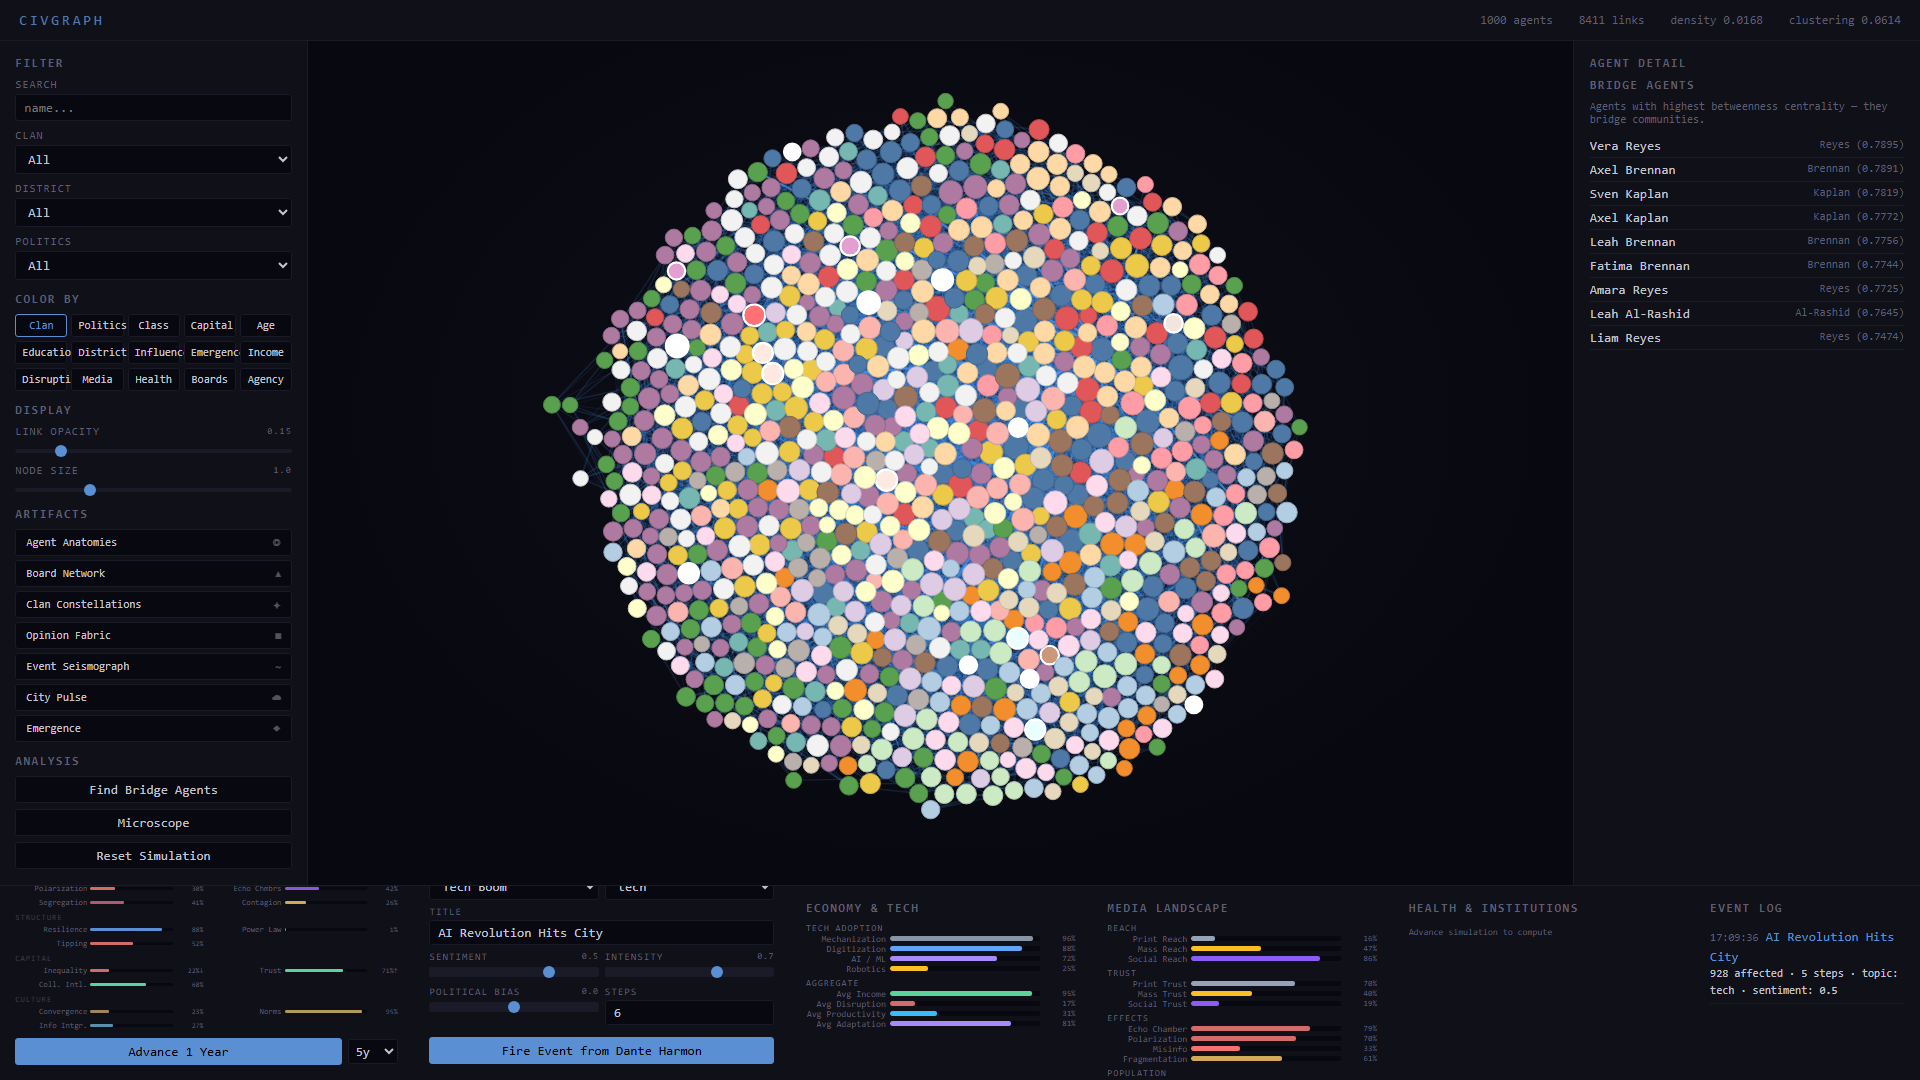
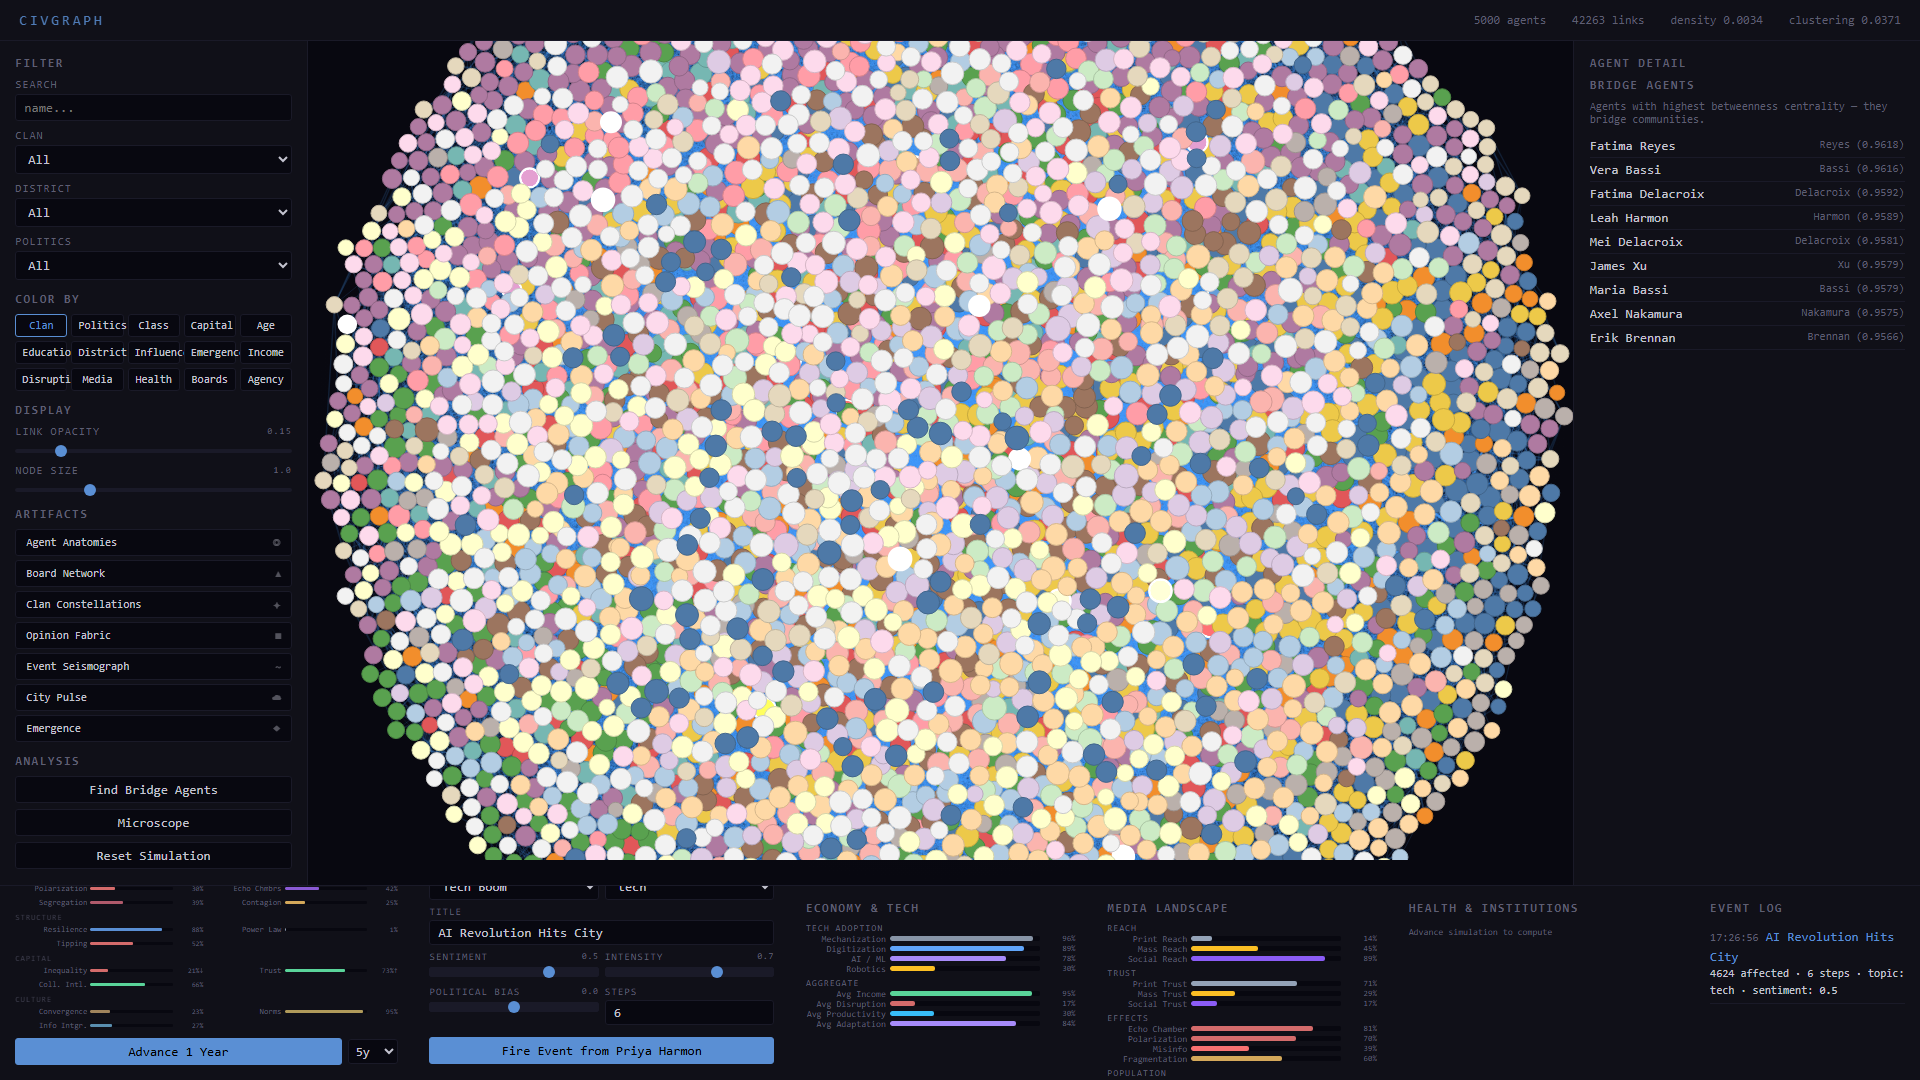
Scale to 5,000 agents, 30-year screenshots
- Default N increased from 1,000 to 5,000 agents
- All screenshots recaptured with 5,000 agents after 30 simulated
  years and 6 diverse events (AI revolution, rent crisis, climate
  march, board corruption, city election, arts quarter opening)
- Dense 5,000-node graph fills the viewport with rich structure
- Constellations show 5x denser clan patterns
- City Pulse shows 35+ years of 7-domain evolution
- Updated all references: README, CLAUDE.md, model.py docstring,
  server.py defaults, app.js search limits

diff --git a/static/app.js b/static/app.js
@@ -688,7 +688,7 @@ async function refreshNodeOpinions() {
   // (more efficient: just re-fetch graph which includes opinion data)
   // The graph endpoint doesn't include opinion_state, so we need the agents endpoint
   // For efficiency, fetch a sample to populate _opinions
-  const allAgents = await fetch("/api/search?limit=1000").then((r) => r.json());
+  const allAgents = await fetch("/api/search?limit=5000").then((r) => r.json());
   const agentMap = {};
   for (const a of allAgents) agentMap[a.id] = a;
   for (const n of graphData.nodes) {
@@ -869,7 +869,7 @@ async function openArtifact(type) {
       break;
     case "topography":
       // Fetch full agent data with institutions for the board visualization
-      const agentsFull = await safeFetch("/api/search?limit=1000");
+      const agentsFull = await safeFetch("/api/search?limit=5000");
       Artifacts.renderTopography(agentsFull || nodes);
       break;
     case "constellation":

diff --git a/server.py b/server.py
@@ -56,7 +56,7 @@ app = FastAPI(title="CivGraph", version="0.1.0")
 
 MAX_EVENT_HISTORY = 200
 MAX_PROPAGATION_STEPS = 20
-MAX_SEARCH_LIMIT = 1000
+MAX_SEARCH_LIMIT = 5000
 SAVE_DIR = Path(__file__).parent / "saves"
 SAVE_DIR.mkdir(exist_ok=True)
 AUTO_SAVE_ENABLED = False
@@ -75,7 +75,7 @@ MEDIA: MediaLandscape | None = None
 def ensure_graph(seed: int | None = 42) -> nx.Graph:
     global GRAPH, ENV, EMERGENCE, MEDIA
     if GRAPH is None:
-        GRAPH = generate_city(1000, seed=seed)
+        GRAPH = generate_city(5000, seed=seed)
         ENV = create_environment(seed)
         MEDIA = create_media_landscape(seed)
         ENV.media_landscape = MEDIA

diff --git a/model.py b/model.py
@@ -1,7 +1,7 @@
 """
 CivGraph — Agent-based modeling on a social graph.
 
-Core model: 1000 individuals in a mid-scale city, each with clan ties,
+Core model: 5000 individuals in a mid-scale city, each with clan ties,
 interests, political leanings, Bourdieusian capital, habitus, task-based
 economic activities, media consumption, health status, institutional
 memberships (boards, associations, clubs), and lifecycle-dependent

diff --git a/README.md b/README.md
@@ -1,8 +1,8 @@
 # CivGraph
 
-An agent-based model of urban social dynamics, built on Pierre Bourdieu's theory of capital and habitus, deepened by Actor-Network Theory (Latour, Callon, Law). 1,000 individuals in a mid-scale city form a heterogeneous network where influence, opinion, and power flow through clan ties, professional bonds, institutional memberships, and shared dispositions -- shaped by macro forces of economy, housing, migration, culture, and governance, disrupted by waves of technological change (modeled as non-human actants), refracted through print, mass, and social media, grounded in the social determinants of health, and analyzed through the lens of translation sociology, performativity, and obligatory passage points.
+An agent-based model of urban social dynamics, built on Pierre Bourdieu's theory of capital and habitus, deepened by Actor-Network Theory (Latour, Callon, Law). 5,000 individuals in a mid-scale city form a heterogeneous network where influence, opinion, and power flow through clan ties, professional bonds, institutional memberships, and shared dispositions -- shaped by macro forces of economy, housing, migration, culture, and governance, disrupted by waves of technological change (modeled as non-human actants), refracted through print, mass, and social media, grounded in the social determinants of health, and analyzed through the lens of translation sociology, performativity, and obligatory passage points.
 
-![The social graph of a city -- 1,000 agents colored by clan affiliation, with economy, media, and health panels visible](docs/01-main-graph.png)
+![The social graph of a city -- 5,000 agents colored by clan affiliation, with economy, media, and health panels visible](docs/01-main-graph.png)
 
 ## Quick Start
 
@@ -382,7 +382,7 @@ environment.py   -- 26 indicators across 7 domains, endogenous
                     dynamics, bidirectional agent coupling.
 capital.py       -- Bourdieu's four capitals, habitus, lifecycle,
                     intergenerational transmission.
-model.py         -- Agent dataclass, city generator (1,000 agents,
+model.py         -- Agent dataclass, city generator (5,000 agents,
                     9 edge types), D3 export.
 events.py        -- Capital-aware BFS propagation, media amplification,
                     coalition detection.

diff --git a/CLAUDE.md b/CLAUDE.md
@@ -18,7 +18,7 @@ The `screenshot.py` is a permanent part of the repo -- don't delete it. Extend i
 
 ## Architecture Overview
 
-- `model.py` -- Agent dataclass, city generator (1,000 agents, 9 edge types)
+- `model.py` -- Agent dataclass, city generator (5,000 agents, 9 edge types)
 - `capital.py` -- Bourdieu's four capitals, habitus, lifecycle, intergenerational transmission
 - `economy.py` -- Task-based economic model, 4 tech waves, Autor framework
 - `media.py` -- Print/mass/social media ecosystems, echo chambers, algorithmic bubbles
